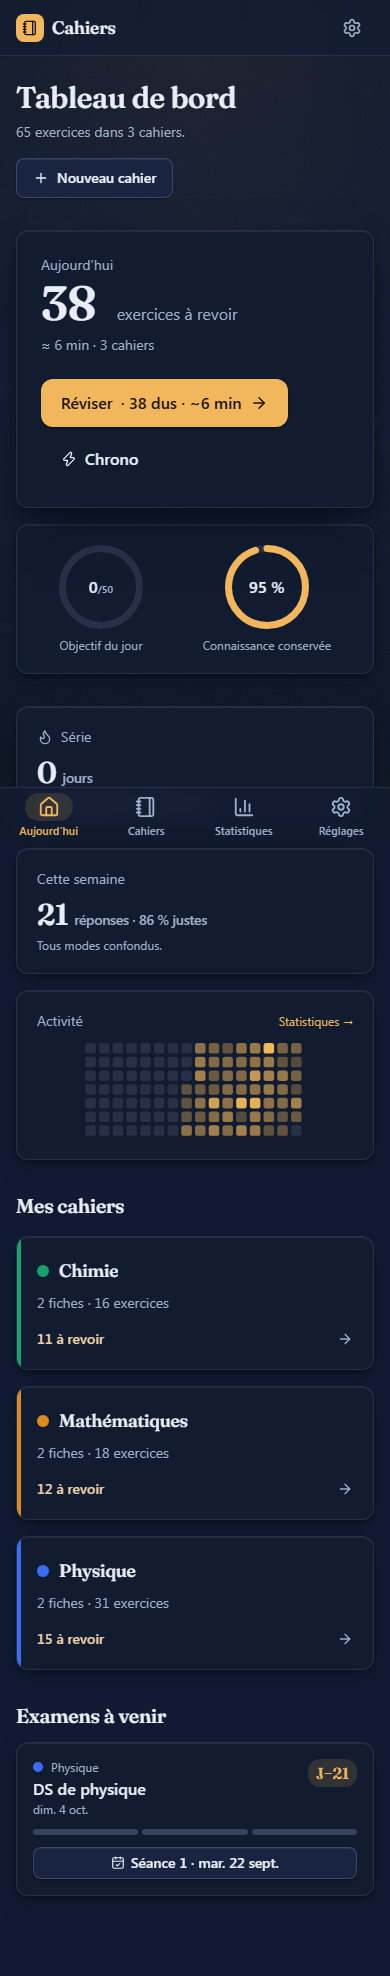
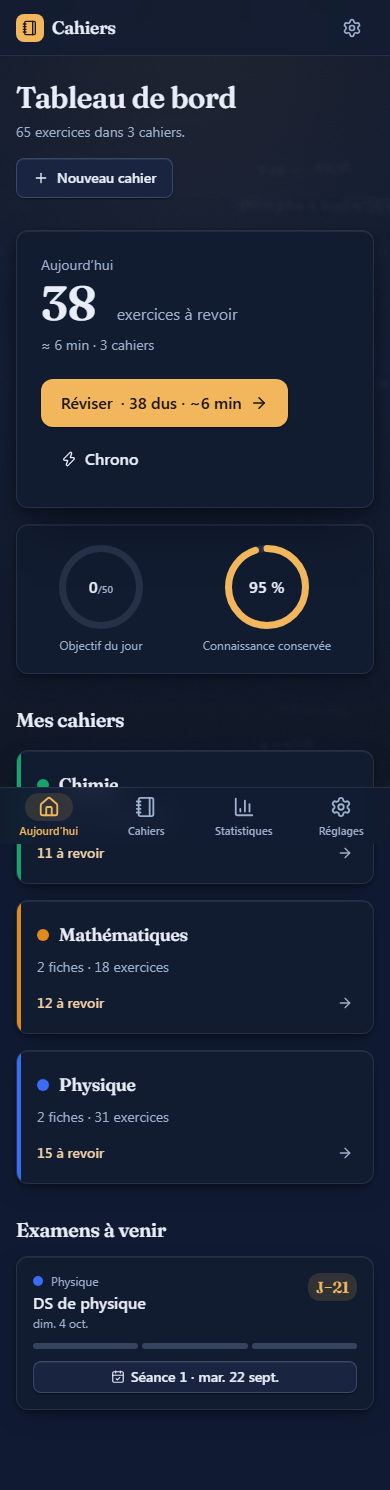
nuit1/debloat-2: page du cahier réduite à Réviser / Ajouter ▾ / ⋯ avec les fiches en premier, tableau de bord mobile sans la rangée série-semaine-activité

diff --git a/src/pages/CahierPage.tsx b/src/pages/CahierPage.tsx
@@ -2,7 +2,7 @@ import { useEffect, useMemo, useState } from 'react'
 import { Link, useNavigate, useParams } from 'react-router-dom'
 import { resetFieldContext, setFieldContext } from '../lib/fieldContext'
 import { useLiveQuery } from 'dexie-react-hooks'
-import { ArrowRight, BookOpenText, Ellipsis, FileText, Network, Pencil, Plus, Sparkles, Trash, Zap } from 'lucide-react'
+import { ArrowRight, BookOpenText, Camera, ChevronDown, Dumbbell, Ellipsis, FileText, Network, Pencil, Plus, Sparkles, Trash, Upload, Zap } from 'lucide-react'
 import { db, deleteCahier } from '../db'
 import { isDueExercise } from '../lib/srs'
 import { formatDate } from '../lib/format'
@@ -30,6 +30,7 @@ export default function CahierPage() {
   const [pretest, setPretest] = useState(false)
   const [mapping, setMapping] = useState(false)
   const [menu, setMenu] = useState(false)
+  const [addMenu, setAddMenu] = useState(false)
 
   // `?? null` distinguishes "not found" from "still loading" (both would be undefined otherwise).
   const cahier = useLiveQuery(() => db.cahiers.get(cahierId).then((c) => c ?? null), [cahierId])
@@ -40,7 +41,15 @@ export default function CahierPage() {
   }, [cahierId, cahier?.color])
   const chapitres = useLiveQuery(() => db.chapitres.where('cahierId').equals(cahierId).reverse().sortBy('updatedAt'), [cahierId])
   const exercises = useLiveQuery(() => db.exercises.where('cahierId').equals(cahierId).toArray(), [cahierId])
-  const mindmap = useLiveQuery(() => db.mindmaps.where('cahierId').equals(cahierId).filter((m) => !m.chapitreId).first(), [cahierId])
+  const mindmap = useLiveQuery(
+    () =>
+      db.mindmaps
+        .where('cahierId')
+        .equals(cahierId)
+        .filter((m) => !m.chapitreId)
+        .first(),
+    [cahierId],
+  )
 
   const stats = useMemo(() => {
     const now = Date.now()
@@ -60,7 +69,17 @@ export default function CahierPage() {
 
   if (cahier === undefined) return <Skeleton className="h-40" />
   if (cahier === null) {
-    return <EmptyState title="Cahier introuvable" description="Il a peut-être été supprimé." action={<Link to="/" className="text-sm font-medium text-accent-text">Retour au tableau de bord</Link>} />
+    return (
+      <EmptyState
+        title="Cahier introuvable"
+        description="Il a peut-être été supprimé."
+        action={
+          <Link to="/" className="text-sm font-medium text-accent-text">
+            Retour au tableau de bord
+          </Link>
+        }
+      />
+    )
   }
 
   const from = `/cahier/${cahier.id}`
@@ -89,43 +108,146 @@ export default function CahierPage() {
         subtitle={`${plural(chapitres?.length ?? 0, 'fiche')} · ${plural(stats.total, 'exercice')}${stats.due ? ` · ${stats.due} à revoir` : ''}`}
         actions={
           <>
-            <Button variant="secondary" onClick={() => setImporting(true)}>
-              <Plus size={16} />
-              Ajouter des fiches
-            </Button>
-            <Button variant="secondary" onClick={() => setWriting(true)} title="Claude rédige une fiche à partir de ton cours et de tes notes">
-              <Sparkles size={16} />
-              Rédiger avec Claude
-            </Button>
+            {/* Three controls, whatever the screen: the one action that matters, « Ajouter », and everything else behind « ⋯ ». */}
             <Button disabled={!stats.due} onClick={() => navigate(`/train?scope=cahier&id=${cahier.id}&mode=review&from=${from}`)}>
-              Réviser{stats.due ? ` (${stats.due})` : ''}
-            </Button>
-            <Button variant="secondary" disabled={!stats.total} onClick={() => navigate(`/train?scope=cahier&id=${cahier.id}&mode=practice&from=${from}`)}>
-              S’entraîner
-            </Button>
-            <Button variant="secondary" disabled={!stats.total} onClick={() => navigate(`/train?scope=cahier&id=${cahier.id}&mode=chrono&from=${from}`)} title="Mode chrono">
-              <Zap size={16} />
-              Chrono
+              Réviser{stats.due ? ` · ${stats.due}` : ''}
             </Button>
             <div className="relative">
-              <IconButton label="Plus d’actions" onClick={() => setMenu((m) => !m)}>
+              <Button variant="secondary" onClick={() => setAddMenu((m) => !m)} aria-expanded={addMenu} aria-haspopup="menu">
+                <Plus size={16} />
+                Ajouter
+                <ChevronDown size={14} className="opacity-70" />
+              </Button>
+              {addMenu && (
+                <div className="glass absolute right-0 z-10 mt-1 w-72 rounded-[var(--radius-md)] border border-line p-1 shadow-elev-4" role="menu" onMouseLeave={() => setAddMenu(false)}>
+                  <button
+                    type="button"
+                    role="menuitem"
+                    className="flex w-full items-start gap-2.5 rounded-md px-2.5 py-2 text-left text-sm hover:bg-surface-2"
+                    onClick={() => {
+                      setAddMenu(false)
+                      setWriting(true)
+                    }}
+                  >
+                    <Sparkles size={16} className="mt-0.5 shrink-0 text-accent" />
+                    <span>
+                      Rédiger avec Claude
+                      <span className="block text-xs text-muted">Cours, notes, ou photos des pages → fiche</span>
+                    </span>
+                  </button>
+                  <button
+                    type="button"
+                    role="menuitem"
+                    className="flex w-full items-start gap-2.5 rounded-md px-2.5 py-2 text-left text-sm hover:bg-surface-2"
+                    onClick={() => {
+                      setAddMenu(false)
+                      setImporting(true)
+                    }}
+                  >
+                    <Upload size={16} className="mt-0.5 shrink-0" />
+                    <span>
+                      Importer une fiche
+                      <span className="block text-xs text-muted">Coller, Word, PDF, OneNote</span>
+                    </span>
+                  </button>
+                  <button
+                    type="button"
+                    role="menuitem"
+                    className="flex w-full items-start gap-2.5 rounded-md px-2.5 py-2 text-left text-sm hover:bg-surface-2"
+                    onClick={() => {
+                      setAddMenu(false)
+                      setWriting(true)
+                    }}
+                  >
+                    <Camera size={16} className="mt-0.5 shrink-0" />
+                    <span>
+                      Photographier un cours sur papier
+                      <span className="block text-xs text-muted">Claude transcrit puis rédige la fiche</span>
+                    </span>
+                  </button>
+                </div>
+              )}
+            </div>
+            <div className="relative">
+              <IconButton label="Plus d’actions" onClick={() => setMenu((m) => !m)} aria-expanded={menu} aria-haspopup="menu">
                 <Ellipsis size={20} />
               </IconButton>
               {menu && (
-                <div className="glass absolute right-0 z-10 mt-1 w-56 rounded-[var(--radius-md)] border border-line p-1 shadow-elev-4" role="menu" onMouseLeave={() => setMenu(false)}>
-                  <button type="button" className="flex w-full items-center gap-2 rounded-md px-2.5 py-2 text-sm hover:bg-surface-2" onClick={() => { setMenu(false); setEditing(true) }}>
-                    <Pencil size={16} /> Modifier
+                <div className="glass absolute right-0 z-10 mt-1 w-60 rounded-[var(--radius-md)] border border-line p-1 shadow-elev-4" role="menu" onMouseLeave={() => setMenu(false)}>
+                  <button
+                    type="button"
+                    role="menuitem"
+                    disabled={!stats.total}
+                    className="flex w-full items-center gap-2 rounded-md px-2.5 py-2 text-sm hover:bg-surface-2 disabled:opacity-50"
+                    onClick={() => {
+                      setMenu(false)
+                      navigate(`/train?scope=cahier&id=${cahier.id}&mode=practice&from=${from}`)
+                    }}
+                  >
+                    <Dumbbell size={16} /> S’entraîner (tout, sans planning)
                   </button>
-                  <button type="button" className="flex w-full items-center gap-2 rounded-md px-2.5 py-2 text-sm hover:bg-surface-2" onClick={() => { setMenu(false); setPretest(true) }}>
+                  <button
+                    type="button"
+                    role="menuitem"
+                    disabled={!stats.total}
+                    className="flex w-full items-center gap-2 rounded-md px-2.5 py-2 text-sm hover:bg-surface-2 disabled:opacity-50"
+                    onClick={() => {
+                      setMenu(false)
+                      navigate(`/train?scope=cahier&id=${cahier.id}&mode=chrono&from=${from}`)
+                    }}
+                  >
+                    <Zap size={16} /> Chrono
+                  </button>
+                  <div className="my-1 border-t border-line" role="separator" />
+                  <button
+                    type="button"
+                    role="menuitem"
+                    className="flex w-full items-center gap-2 rounded-md px-2.5 py-2 text-sm hover:bg-surface-2"
+                    onClick={() => {
+                      setMenu(false)
+                      setEditing(true)
+                    }}
+                  >
+                    <Pencil size={16} /> Modifier le cahier
+                  </button>
+                  <button
+                    type="button"
+                    className="flex w-full items-center gap-2 rounded-md px-2.5 py-2 text-sm hover:bg-surface-2"
+                    onClick={() => {
+                      setMenu(false)
+                      setPretest(true)
+                    }}
+                  >
                     <Sparkles size={16} /> Pré-test d’un chapitre…
                   </button>
-                  <button type="button" className="flex w-full items-center gap-2 rounded-md px-2.5 py-2 text-sm hover:bg-surface-2" onClick={() => { setMenu(false); setWorkload('postpone') }}>
+                  <button
+                    type="button"
+                    className="flex w-full items-center gap-2 rounded-md px-2.5 py-2 text-sm hover:bg-surface-2"
+                    onClick={() => {
+                      setMenu(false)
+                      setWorkload('postpone')
+                    }}
+                  >
                     <ArrowRight size={16} /> Reporter des révisions…
                   </button>
-                  <button type="button" className="flex w-full items-center gap-2 rounded-md px-2.5 py-2 text-sm hover:bg-surface-2" onClick={() => { setMenu(false); setWorkload('advance') }}>
+                  <button
+                    type="button"
+                    className="flex w-full items-center gap-2 rounded-md px-2.5 py-2 text-sm hover:bg-surface-2"
+                    onClick={() => {
+                      setMenu(false)
+                      setWorkload('advance')
+                    }}
+                  >
                     <ArrowRight size={16} className="rotate-180" /> Avancer des révisions…
                   </button>
-                  <button type="button" className="flex w-full items-center gap-2 rounded-md px-2.5 py-2 text-sm text-bad hover:bg-bad-soft" onClick={() => { setMenu(false); remove() }}>
+                  <button
+                    type="button"
+                    className="flex w-full items-center gap-2 rounded-md px-2.5 py-2 text-sm text-bad hover:bg-bad-soft"
+                    onClick={() => {
+                      setMenu(false)
+                      remove()
+                    }}
+                  >
                     <Trash size={16} /> Supprimer
                   </button>
                 </div>
@@ -134,44 +256,6 @@ export default function CahierPage() {
           </>
         }
       />
-
-      <section className="grid gap-3 sm:grid-cols-2">
-        <div className="flex items-start gap-3 rounded-[var(--radius-md)] border border-line bg-surface p-4 shadow-elev-2">
-          <span className="flex size-9 shrink-0 items-center justify-center rounded-lg bg-surface-2 text-muted">
-            <BookOpenText size={18} />
-          </span>
-          <div className="min-w-0 flex-1">
-            <h3 className="font-medium">Programme de l’année</h3>
-            <p className="mt-0.5 text-sm text-muted">
-              {cahier.programme?.trim() ? `${cahier.programme.length.toLocaleString('fr-FR')} caractères (BO, plan de cours). Sert à compléter les fiches.` : 'Colle l’extrait du BO et ton plan de cours : Claude s’en sert pour repérer ce qui manque dans tes fiches.'}
-            </p>
-            <Button variant="secondary" size="sm" className="mt-3" onClick={() => setProgrammeOpen(true)}>
-              {cahier.programme?.trim() ? 'Modifier le programme' : 'Renseigner le programme'}
-            </Button>
-          </div>
-        </div>
-        <div className="flex items-start gap-3 rounded-[var(--radius-md)] border border-line bg-surface p-4 shadow-elev-2">
-          <span className="flex size-9 shrink-0 items-center justify-center rounded-lg bg-surface-2 text-muted">
-            <Network size={18} />
-          </span>
-          <div className="min-w-0 flex-1">
-            <h3 className="font-medium">Carte mentale du cahier</h3>
-            <p className="mt-0.5 text-sm text-muted">{mindmap ? `Synthèse de la matière, mise à jour ${formatDate(mindmap.updatedAt)}.` : 'Une vue d’ensemble de toute la matière, une branche par fiche.'}</p>
-            <div className="mt-3 flex flex-wrap gap-2">
-              {mindmap && (
-                <Button size="sm" onClick={() => navigate(`/carte/${mindmap.id}`)}>
-                  Voir la carte
-                </Button>
-              )}
-              <Button variant="secondary" size="sm" disabled={!chapitres?.length} onClick={() => setMapping(true)}>
-                {mindmap ? 'Régénérer' : 'Générer avec Claude'}
-              </Button>
-            </div>
-          </div>
-        </div>
-      </section>
-
-      <ExamsSection cahier={cahier} chapitreCount={chapitres?.length ?? 0} />
 
       <section className="flex flex-col gap-3">
         <h2 className="text-xl">Fiches</h2>
@@ -202,7 +286,9 @@ export default function CahierPage() {
               return (
                 <li key={ch.id}>
                   <Link to={`/cahier/${cahier.id}/fiche/${ch.id}`} className="group flex items-center gap-4 px-4 py-3.5 hover:bg-surface-2 ring-focus">
-                    <span className="flex size-9 shrink-0 items-center justify-center rounded-[var(--radius-sm)] bg-surface-2 text-muted"><FileText size={18} /></span>
+                    <span className="flex size-9 shrink-0 items-center justify-center rounded-[var(--radius-sm)] bg-surface-2 text-muted">
+                      <FileText size={18} />
+                    </span>
                     <div className="min-w-0 flex-1">
                       <div className="truncate font-medium">{ch.title}</div>
                       <div className="mt-0.5 flex flex-wrap items-center gap-x-2 gap-y-1 text-xs text-muted">
@@ -221,6 +307,46 @@ export default function CahierPage() {
             })}
           </ul>
         )}
+      </section>
+
+      <ExamsSection cahier={cahier} chapitreCount={chapitres?.length ?? 0} />
+
+      <section className="grid gap-3 sm:grid-cols-2">
+        <div className="flex items-start gap-3 rounded-[var(--radius-md)] border border-line bg-surface p-4 shadow-elev-2">
+          <span className="flex size-9 shrink-0 items-center justify-center rounded-lg bg-surface-2 text-muted">
+            <BookOpenText size={18} />
+          </span>
+          <div className="min-w-0 flex-1">
+            <h3 className="font-medium">Programme de l’année</h3>
+            <p className="mt-0.5 text-sm text-muted">
+              {cahier.programme?.trim()
+                ? `${cahier.programme.length.toLocaleString('fr-FR')} caractères (BO, plan de cours). Sert à compléter les fiches.`
+                : 'Colle l’extrait du BO et ton plan de cours : Claude s’en sert pour repérer ce qui manque dans tes fiches.'}
+            </p>
+            <Button variant="secondary" size="sm" className="mt-3" onClick={() => setProgrammeOpen(true)}>
+              {cahier.programme?.trim() ? 'Modifier le programme' : 'Renseigner le programme'}
+            </Button>
+          </div>
+        </div>
+        <div className="flex items-start gap-3 rounded-[var(--radius-md)] border border-line bg-surface p-4 shadow-elev-2">
+          <span className="flex size-9 shrink-0 items-center justify-center rounded-lg bg-surface-2 text-muted">
+            <Network size={18} />
+          </span>
+          <div className="min-w-0 flex-1">
+            <h3 className="font-medium">Carte mentale du cahier</h3>
+            <p className="mt-0.5 text-sm text-muted">{mindmap ? `Synthèse de la matière, mise à jour ${formatDate(mindmap.updatedAt)}.` : 'Une vue d’ensemble de toute la matière, une branche par fiche.'}</p>
+            <div className="mt-3 flex flex-wrap gap-2">
+              {mindmap && (
+                <Button size="sm" onClick={() => navigate(`/carte/${mindmap.id}`)}>
+                  Voir la carte
+                </Button>
+              )}
+              <Button variant="secondary" size="sm" disabled={!chapitres?.length} onClick={() => setMapping(true)}>
+                {mindmap ? 'Régénérer' : 'Générer avec Claude'}
+              </Button>
+            </div>
+          </div>
+        </div>
       </section>
 
       <NewCahierModal open={editing} onClose={() => setEditing(false)} cahier={cahier} />

diff --git a/src/pages/Dashboard.tsx b/src/pages/Dashboard.tsx
@@ -203,7 +203,7 @@ export default function Dashboard() {
       </section>
 
       {/* Streak, week, activity */}
-      <section className="grid gap-4 sm:grid-cols-2 lg:grid-cols-[1fr_1fr_1.6fr]">
+      <section className="hidden gap-4 sm:grid sm:grid-cols-2 lg:grid-cols-[1fr_1fr_1.6fr]">
         <Card className="p-5">
           <div className="flex items-center gap-2 text-sm text-muted">
             <Flame size={16} aria-hidden="true" />

diff --git a/DESCRIPTIF.md b/DESCRIPTIF.md
@@ -48,7 +48,7 @@ Avant de révéler une réponse (flashcard, démonstration, texte à trous), l'a
 
 ## Tableau de bord, statistiques et réglages
 
-- **Tableau de bord** : exercices dus (sous limites, temps estimé), examens à venir, série bienveillante (objectif minimal, gels automatiques, jamais de reproche), réponses et précision de la semaine, cahiers.
+- **Tableau de bord** : exercices dus (sous limites, temps estimé), anneaux objectif du jour et connaissance conservée, cahiers, examens à venir ; sur ordinateur aussi la série bienveillante (objectif minimal, gels automatiques, jamais de reproche), les réponses et la précision de la semaine, l'activité. Page d'un cahier : « Réviser », « Ajouter » (Claude, import, photos) et « ⋯ » pour le reste.
 - **Statistiques** (`/stats`), recalculées depuis le journal : connaissance conservée (rétention estimée), true retention 7/30/90 jours et par cahier, prévision de charge à 30 jours, heatmap de l'année, réussite par heure, calibration.
 - **Réglages** : deux sections ouvertes (Apparence ; Révision : rétention visée, nouveaux et révisions par jour), le reste replié derrière une ligne de résumé (réglages avancés de révision, chrono, génération avec Claude, OneNote, stockage, synchronisation, sauvegardes). Détail : apparence (thème, fond animé, balayage des flashcards, mouvement), niveau d'études (rappelé dans chaque prompt), types d'exercices par défaut, file de validation, FSRS (rétention visée, limites, jours légers, intervalle max, seuil leech), confiance, objectifs de série, siblings, chrono, OneNote, stockage, **synchronisation**, sauvegarde (restaurer / **fusionner**) et exports.
 - **Téléphone et tablette** : barre de navigation inférieure (Aujourd'hui, Cahiers, Statistiques, Réglages) avec zone sûre, cibles ≥ 44 px, champs ≥ 16 px, carte de session alignée sous le pouce avec ses boutons Modifier / Demain / Suspendre / Aide, **balayage** des flashcards révélées (gauche « Encore », droite « Bien », intervalle affiché, désactivable), page d'aide `/aide`, partage du prompt Claude par la feuille de partage et collage depuis le presse-papiers.

diff --git a/DECISIONS.md b/DECISIONS.md
@@ -310,6 +310,9 @@ Règle de décision appliquée aux choix non tranchés : données préservées >
 - Session : les quatre boutons fantômes sous la carte deviennent un seul menu « ⋯ » dans l'en-tête (Modifier, Revoir demain, Suspendre, Aide) ; l'icône « ? » y est absorbée. Sur mobile, l'en-tête tient en une ligne : fermer, portée, compteur, menu.
 - Réglages : `Section folded` (`<details>`) avec une ligne de résumé ; seules Apparence et Révision (trois réglages) sont ouvertes. La section FSRS est scindée : l'essentiel visible, le reste dans « Réglages avancés de révision ».
 
+- Page d'un cahier : trois commandes quelle que soit la largeur — « Réviser · N », « Ajouter » (menu : rédiger avec Claude, importer, photographier un cours) et « ⋯ » (s'entraîner, chrono, modifier, pré-test, reporter/avancer, supprimer). Les fiches passent en premier, les examens ensuite, les cartes « programme » et « carte mentale » en dernier : on ouvre un cahier pour ses fiches.
+- Tableau de bord sur téléphone : la rangée série / semaine / activité est masquée (elle est sur la page Statistiques) ; restent l'action du jour, les deux anneaux, les cahiers et les examens.
+
 ### B1. Tactile
 - Barre inférieure mobile à quatre entrées ; « Cahiers » a sa page (`/cahiers`) car le tableau de bord la met trop bas sur un téléphone.
 - Cibles tactiles : règle CSS globale sous `(pointer: coarse)` (`min-height/min-width: 44px` sur les boutons) plutôt qu'une retouche composant par composant ; les `kbd` sont masqués (pas de clavier).

diff --git a/RAPPORT_NUIT.md b/RAPPORT_NUIT.md
@@ -114,6 +114,7 @@ Les formules saisies sont comparées sur une forme canonique commune au LaTeX st
 
 - Flashcard = carte à retourner, deux boutons (« Je ne savais pas » / « Je savais »), nuances et clavier conservés ; saisie et confiance désactivées par défaut (remises à zéro une fois pour les profils existants). Le bouton « Valider » qui semblait inerte sur téléphone : la réponse apparaissait sous le bord de l'écran ; les boutons de note défilent maintenant en vue.
 - Session : un menu « ⋯ » remplace les quatre boutons sous la carte ; Réglages : deux sections ouvertes, sept repliées avec résumé. Captures `docs/screenshots/debloat/` (mobile). Commit `nuit1/debloat-1`.
+- Page d'un cahier : trois commandes (Réviser, Ajouter ▾, ⋯) au lieu de six boutons, fiches en premier ; tableau de bord mobile sans la rangée série / semaine / activité. Commit `nuit1/debloat-2`.
 
 ## Doutes de goût (à trancher par toi)
 
